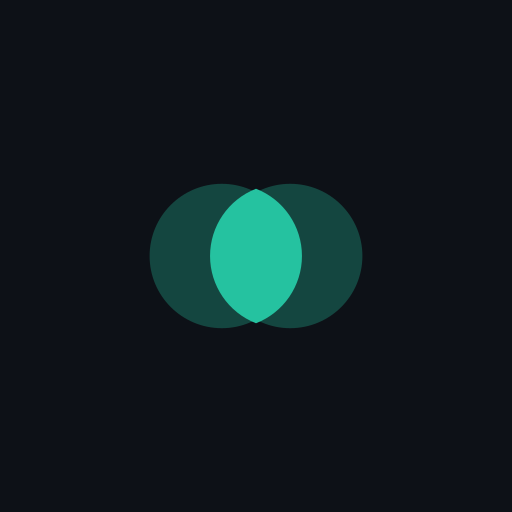
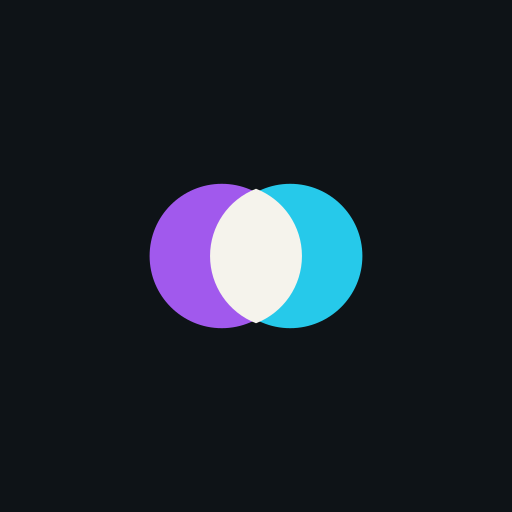
docs: the mark, in the palette the diagram already used
The first version was teal on teal — one colour for both circles, which
says "two of the same thing". The two circles are not the same thing: one
is the lines an agent produced, the other the lines in the commit, and the
whole point is where they meet. docs/architecture/the-intersection.png had
been drawing that correctly all along, in violet and cyan, so the mark now
uses those.

Three things were got wrong first and are worth recording, because each
looked fine until it was rendered at the size it would actually be seen at.

The lens was white, copied from the diagram, and disappeared on the light
theme. Then it was a knockout, and disappeared on the dark one — worse
than invisible there, because a lens the colour of the ground reads as a
GAP between two shapes rather than an overlap, which inverts the meaning.
Both measure ~1.0 contrast against their ground.

A periwinkle mid-tone fixed both and was mediocre in both. The answer is
each theme's own extreme, which is two files: an SVG loaded through
<img src> is a separate document and cannot inherit currentColor, and
every consumer here uses <img>.

The lines in the lens were 3.2 units and read as bars rather than text.
1.5 reads as text and still holds at 96px, which is the floor — 1.2 starts
disappearing.

Lines appear at 96px and above only. Below that they blur into noise and
take the lens with them.

Avatar verified against both GitHub crops, circular and rounded square,
[…]

Changed region(s): [[0.2812, 0.3438, 0.7188, 0.6562]]

diff --git a/docs/brand/README.md b/docs/brand/README.md
@@ -1,6 +1,6 @@
 # Brand
 
-Two overlapping sets, with the intersection solid.
+Two overlapping sets, with the intersection between them.
 
 The mark is the mechanism rather than a picture of one: a commit reaches
 `method=intersected` exactly when the lines an agent produced are the lines
@@ -8,9 +8,43 @@ that were staged, and the overlap is that evidence.
 
 | File | Use |
 |---|---|
-| `logo.svg` | the mark, 64×64 viewBox, scales anywhere |
+| `logo.svg` | light backgrounds — dark lens |
+| `logo-dark.svg` | dark backgrounds — light lens |
+| `logo-lined.svg` / `logo-lined-dark.svg` | 96px and above, lens carries code lines |
 | `avatar.png` | 512×512 — GitHub org/repo avatar |
 | `social-preview.png` | 1280×640 — **Settings → Social preview** |
+
+## Palette
+
+| | |
+|---|---|
+| `#a159ed` | the agent's lines |
+| `#26c9ea` | the lines in the commit |
+| `#0e1317` | ground |
+
+Taken from `docs/architecture/the-intersection.png`, so the mark and the
+diagram that explains it are the same drawing at two scales.
+
+## Three decisions that are not arbitrary
+
+**The lens is each theme's own extreme, not a mid-tone.** A periwinkle that
+split the difference was tried and is worse in both themes than white-on-dark
+and dark-on-light are in theirs. A lens the colour of the ground is worse
+still: it reads as a *gap* between two shapes rather than an overlap, which
+inverts the meaning. Measured at ~1.0 contrast — invisible.
+
+That is why there are two files rather than one. An SVG loaded through
+`<img src>` is a separate document and cannot inherit `currentColor` from the
+page, and both the Docusaurus navbar and GitHub use `<img>`. The docs site
+swaps them with `srcDark`; the favicon carries a `prefers-color-scheme` rule
+inside the file, since browser chrome has no framework to theme it.
+
+**Lines only at 96px and above.** They read as code at 128 and as noise at 16,
+where they also stop the lens reading as a lens. Four constructions were
+rendered at 16/32/64 before any was judged.
+
+**Line weight is 1.5, not 3.2.** Thicker reads as bars rather than text.
+Thinner than 1.5 starts disappearing at 96px, which is the floor.
 
 ## Regenerating
 
@@ -19,16 +53,5 @@ rsvg-convert -w 512  -h 512 avatar.svg         -o avatar.png
 rsvg-convert -w 1280 -h 640 social-preview.svg -o social-preview.png
 ```
 
-The SVGs are the source; the PNGs are build output committed because GitHub
-and social platforms will not take an SVG.
-
-## Two things that are not arbitrary
-
-**Solid lens against soft discs.** Two stroked circles read well at 64px and
-collapse into a smear at 16, which is the size a favicon is actually seen at.
-Weight contrast survives where stroke contrast does not — measured by
-rendering three candidates at 16/32/64 rather than judging at full size.
-
-**The social preview is a separate file from the docs card.** GitHub crops a
-repo's preview harder than Slack or X do; an earlier version reused the docs
-card and lost its tagline off the right edge in the repo-card view.
+The SVGs are the source; the PNGs are committed because GitHub takes no SVG
+for an avatar or a social preview.
